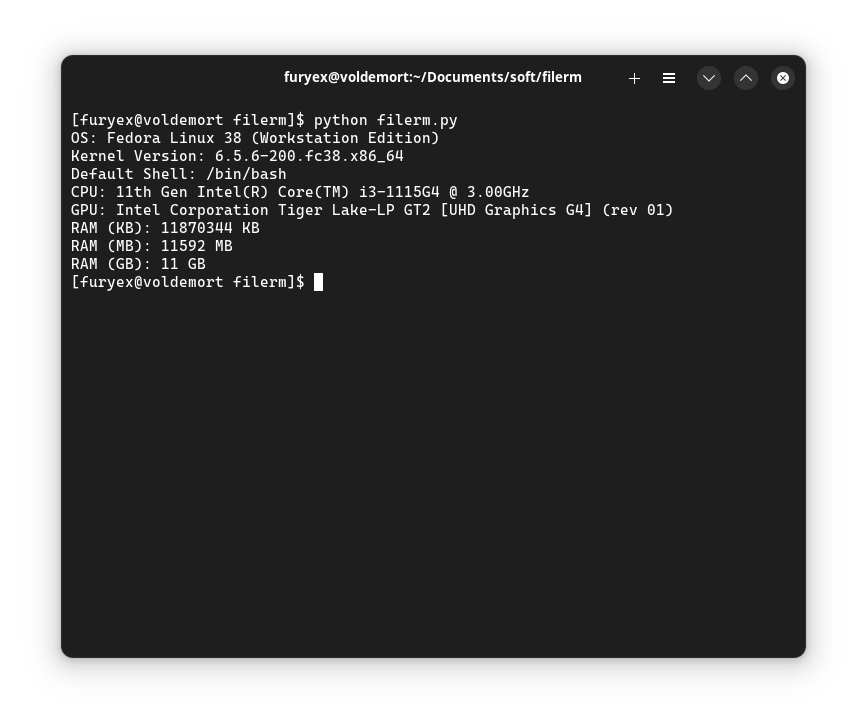
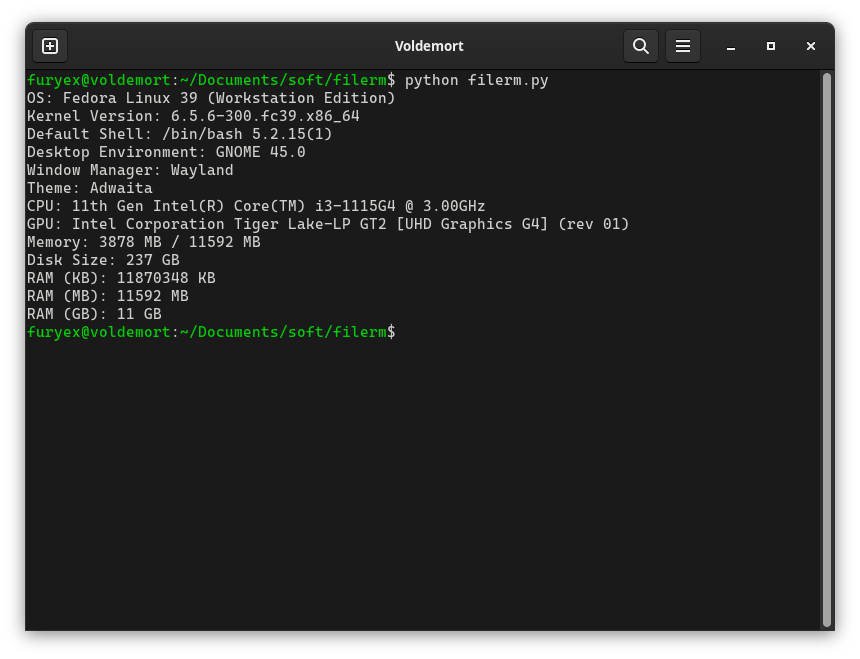
update README.md

Changed region(s): [[0.0, 0.0303, 0.9977, 0.9712], [0.6651, 0.3338, 0.7256, 0.3642]]

diff --git a/README.md b/README.md
@@ -1,9 +1,14 @@
-## filerm, reading pc specifications and basic file operations library
+## filerm - PC Information Collector Tool
 
 ### Functions
 - OS Information (name, kernel version, shell)
 - CPU Information
 - GPU Information
+- Desktop Environment 
+- Window Manager
+- Theme (eg. Adwaita)
+- Ratio of used memory to total memory
+- Total Disk Size
 - Memory Information (KB, MB, GB)
 
 
@@ -13,8 +18,13 @@
 print("OS: " + filerm.getOS("os-name"))
 print("Kernel Version: " + filerm.getOS("kernel"))
 print("Default Shell: " + filerm.getOS("shell"))
+print("Desktop Environment: " + filerm.getOS("desktop-env"))
+print("Window Manager: " + filerm.getOS("window-mngr").capitalize())
+print("Theme: " + filerm.getOS("gnome-theme"))
 print("CPU: " + filerm.ReadCPU())
 print("GPU: " + filerm.ReadGPU())
+print("Disk Size: " + filerm.ReadDisk())
+print("Memory: " + str(filerm.CurrentRam()) + " / " + filerm.ReadMemory("mb"))
 print("RAM (KB): " + filerm.ReadMemory("kb"))
 print("RAM (MB): " + filerm.ReadMemory("mb"))
 print("RAM (GB): " + filerm.ReadMemory("gb"))
